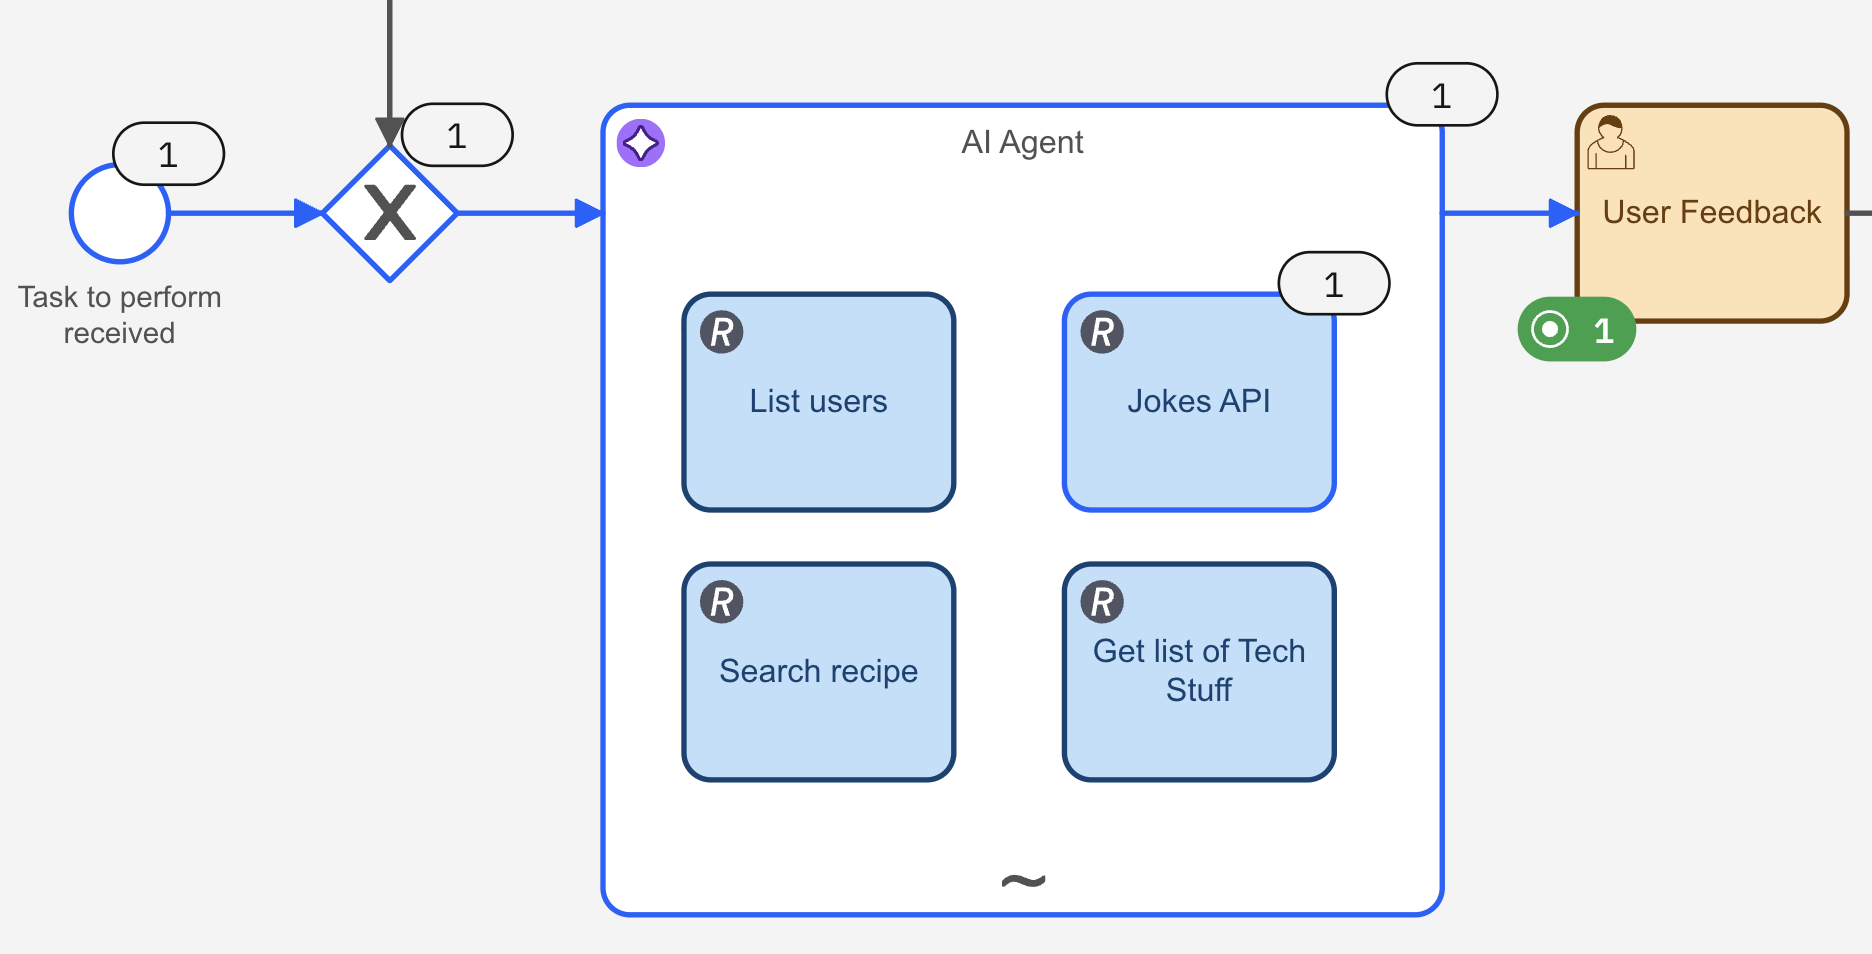
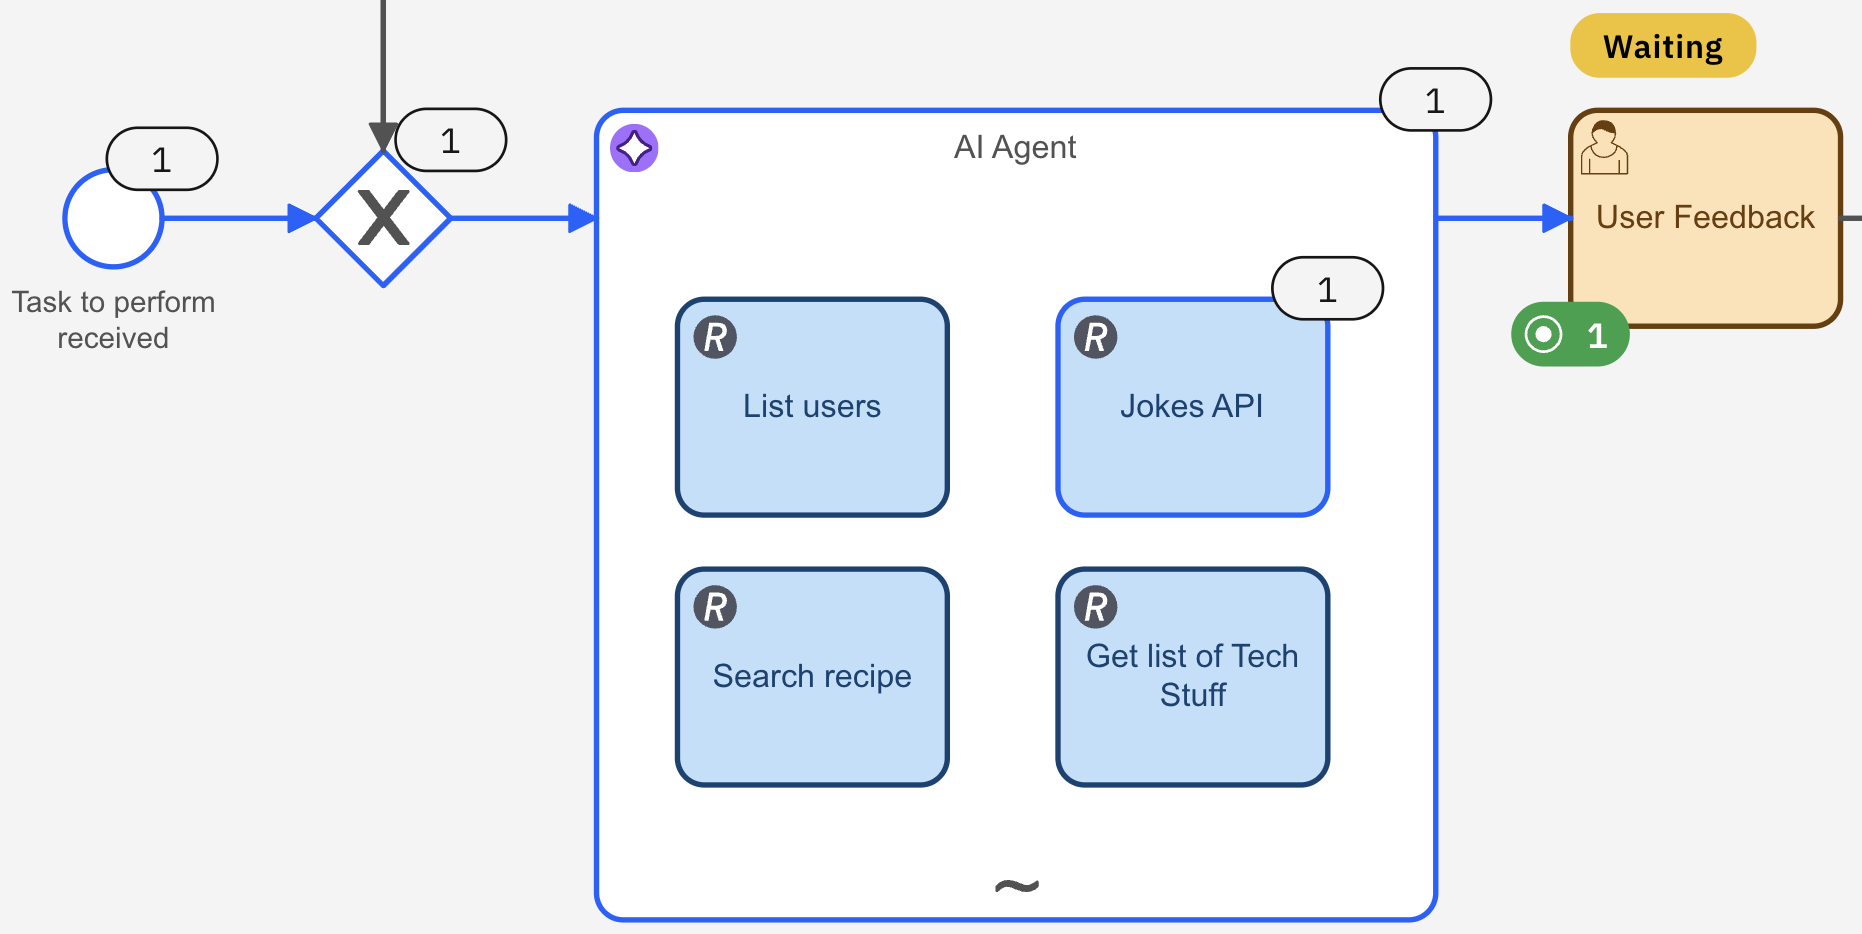
Review from tech writer

diff --git a/docs/components/agentic-orchestration/evaluate-agents/monitor-ai-agents.md b/docs/components/agentic-orchestration/evaluate-agents/monitor-ai-agents.md
@@ -2,14 +2,17 @@
 id: monitor-ai-agents
 title: Monitor your AI agents with Operate
 sidebar_label: Monitor with Operate
-description: "Monitor an AI agent's real-time state, usage metrics, and conversation history in Operate, including agents built with external frameworks."
+description: "Monitor and troubleshoot your AI agent process instances in real time using Operate"
 keywords:
   ["agentic ai", "AI agents", "Operate", "agent instance", "decision trail"]
 ---
 
 import ProcessInstance from '../img/process-instance-overview.png';
+import AgentState from '../img/agent-state.png';
+import AgentPanel from '../img/agent-panel.png';
+import AgentConversationHistory from '../img/agent-conversation-history.png';
 
-Monitor and troubleshoot your AI agent process instances in real time using Operate, including their decision trail.
+Monitor and troubleshoot your AI agent process instances in real time using Operate.
 
 ## About
 
@@ -48,14 +51,13 @@ For example:
 2. Locate the process instance created by your prompt. See [view a deployed process](/components/operate/userguide/basic-operate-navigation.md#view-a-deployed-process) for more details.
 3. Open your process instance view by clicking on its process instance key.
 
-Operate highlights the agent element on the diagram according to its current [state](/components/agentic-orchestration/agent-states-and-metrics.md#agent-states) — for example, `Thinking` while the agent reasons, or `Tool calling` while it calls the **Jokes API** tool. A simple prompt like this one moves through its loop quickly, so the agent instance may already show `Idle` or `Completed` by the time you look:
+At this point, you should see the process progressing through your model:
 
-<img src={ProcessInstance} alt="Process instance overview with the agent element highlighted by its current state"/>
+<img src={ProcessInstance} alt="Process instance overview"/>
 
-<!--
-SCREENSHOT TO UPDATE: process-instance-overview.png
-Recapture to show the agent element on the diagram highlighted with its live state (for example, `Tool calling` or `Idle`), replacing the current screenshot that predates state highlighting.
--->
+Operate highlights the agent element's current [state](/components/agentic-orchestration/agent-states-and-metrics.md#agent-states). For example, `Thinking` while the agent reasons, or `Tool calling` while it calls the **Jokes API** tool. A simple prompt like this one moves through its loop quickly, so the agent instance may already show `Idle` or `Completed` by the time you look.
+
+<img src={AgentState} alt="Agent state overview" width="50%"/>
 
 ## Step 3: Inspect the agent's state and usage metrics
 
@@ -65,16 +67,14 @@ Select the agent element on the diagram. Operate shows the [data available](/com
 - The tools resolved for it.
 - Its usage metrics: token consumption, tool call count, and model call count against the configured limit.
 
-<!--
-SCREENSHOT NEEDED: agent-state-panel.png
-The agent element's details panel, showing the state, model, system prompt, tools list, and usage metrics/limits described above. Confirm the exact panel/tab name and layout when capturing this.
--->
+
+<img src={AgentPanel} alt="Agent panel overview"/>
 
 For guidance on reading these signals to catch a stuck or looping agent, see [detect off-rail agents](./detect-off-rail-agents.md).
 
 ## Step 4: Review the conversation history
 
-The conversation history is the agent's decision trail, grouped by [loop iteration](/components/agentic-orchestration/agent-definitions-and-instances.md#conversation-history-and-loop-iterations). Operate labels each group simply as `iteration`, for example `1. iteration`.
+The conversation history is the agent's decision trail, grouped by [loop iteration](/components/agentic-orchestration/agent-definitions-and-instances.md#conversation-history-and-loop-iterations). Operate labels each group simply as `iteration`, for example `1.loop iteration`.
 
 For this example, the first iteration shows:
 
@@ -82,17 +82,9 @@ For this example, the first iteration shows:
 - The assistant message where the agent selects the **Jokes API** tool, along with its reasoning.
 - The tool result containing the joke text.
 
-<!--
-SCREENSHOT NEEDED: agent-conversation-history.png
-The conversation history view for this process instance, showing at least one `iteration` group with a user prompt, an assistant message with a tool selection, and the resulting tool call/result.
--->
+<img src={AgentConversationHistory} alt="Agent conversation history overview"/>
 
-If a tool maps to a BPMN element in your process, Operate links the tool call in the conversation history to that element on the diagram, so you can navigate straight from the decision trail to the execution step it produced. See [step 4: report state transitions](/components/agentic-orchestration/connect-external-agent.md#step-4-report-state-transitions) for how this linking works.
-
-<!--
-SCREENSHOT NEEDED: agent-tool-call-detail.png
-A single tool call entry in the conversation history expanded to show its arguments and result inline, ideally also showing the link/navigation to the corresponding diagram element.
--->
+If a tool maps to a BPMN element in your process, Operate links the tool call in the conversation history to that element on the diagram, so you can navigate straight from the decision trail to the execution step it produced. 
 
 ## Step 5: Understand how agent memory is stored
 
@@ -124,7 +116,6 @@ In this case, the required action is to provide feedback on the agent results. T
 
 Now that you know how to monitor your AI agents, you can:
 
-- [Connect an external agent](/components/agentic-orchestration/connect-external-agent.md) built with a framework like LangGraph or CrewAI so it gets this same visibility.
 - [Analyze your AI agents](./analyze-ai-agents.md) with Optimize.
 - [Test your AI agents](./test-ai-agents.md) with Camunda Process Test, including handling non-deterministic flows and verifying AI-generated output.
 - Learn more about [Camunda agentic orchestration](/components/agentic-orchestration/agentic-orchestration-overview.md) and the [AI Agent connector](/components/connectors/out-of-the-box-connectors/agentic-ai-aiagent.md).
